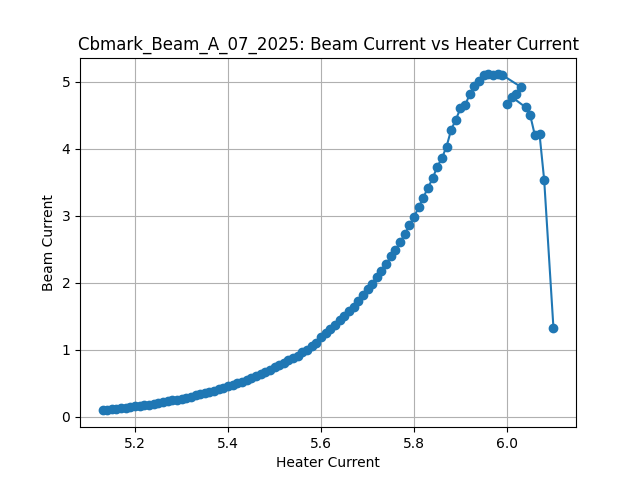
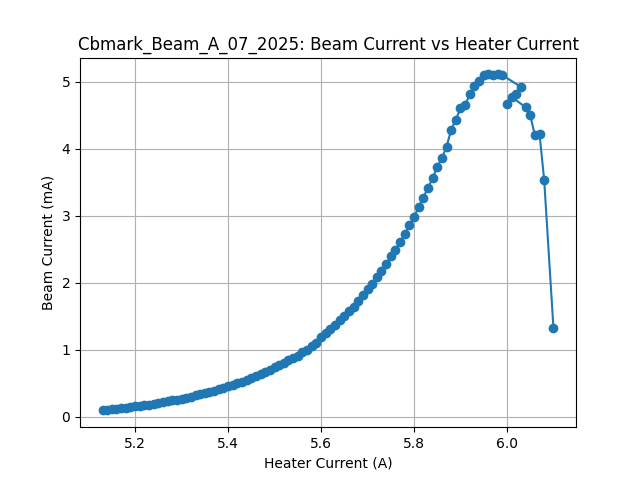
Added Units to beam plot axes and removed filenamee requirements for clean script

Changed region(s): [[0.4062, 0.9375, 0.625, 1.0], [0.0625, 0.375, 0.0938, 0.6562]]

diff --git a/data/lut/clean.py b/data/lut/clean.py
@@ -6,15 +6,17 @@ from collections import defaultdict
 
 BASE_DIR = os.path.dirname(os.path.abspath(__file__))
 
-POWER_SUPPLY_RAW_DIR = os.path.join(BASE_DIR, "power_supply", "raw_files")
+POWER_SUPPLY_INPUT_DIR = os.path.join(BASE_DIR, "power_supply")
 POWER_SUPPLY_PLOT_DIR = os.path.join(BASE_DIR, "power_supply", "plots")
 POWER_SUPPLY_OUTPUT_DIR = os.path.join(BASE_DIR, "power_supply")
 
-BEAM_CONTROL_RAW_DIR = os.path.join(BASE_DIR, "beam_control", "raw_files")
+BEAM_CONTROL_INPUT_DIR = os.path.join(BASE_DIR, "beam_control")
 BEAM_CONTROL_PLOT_DIR = os.path.join(BASE_DIR, "beam_control", "plots")
 BEAM_CONTROL_OUTPUT_DIR = os.path.join(BASE_DIR, "beam_control")
 
-RAW_PREFIX = "raw_"
+# Backward-compatible support for legacy raw_files folders.
+POWER_SUPPLY_RAW_DIR = os.path.join(BASE_DIR, "power_supply", "raw_files")
+BEAM_CONTROL_RAW_DIR = os.path.join(BASE_DIR, "beam_control", "raw_files")
 
 def read_csv(filename):
     with open(filename, newline="") as f:
@@ -73,20 +75,21 @@ def clean_power_supply_file(raw_path, clean_path):
     return rows
 
 
-def discover_raw_file_pairs(raw_dir):
-    """Return (raw_name, clean_name) for files named raw_*.csv in raw_dir."""
-    if not os.path.isdir(raw_dir):
+def discover_csv_file_pairs(input_dir):
+    """Return (input_name, clean_name) for CSV files in input_dir."""
+    if not os.path.isdir(input_dir):
         return []
 
     file_pairs = []
-    for name in sorted(os.listdir(raw_dir), key=str.lower):
+    for name in sorted(os.listdir(input_dir), key=str.lower):
         lower_name = name.lower()
         if not lower_name.endswith(".csv"):
             continue
-        if not lower_name.startswith(RAW_PREFIX):
+        # Skip hidden/temp artifacts.
+        if lower_name.startswith(".") or lower_name.startswith("~"):
             continue
 
-        clean_name = name[len(RAW_PREFIX):]
+        clean_name = name
         clean_stem, clean_ext = os.path.splitext(clean_name)
         if not clean_name or clean_ext.lower() != ".csv" or not clean_stem:
             continue
@@ -103,8 +106,8 @@ def plot_power_supply_graphs(rows, name, plot_dir):
     # Plot voltage vs beam current (X: voltage, Y: beam current)
     plt.figure()
     plt.plot(volt, beam, marker='o')
-    plt.xlabel('Voltage')
-    plt.ylabel('Beam Current')
+    plt.xlabel('Voltage (V)')
+    plt.ylabel('Beam Current (mA)')
     plt.title(f'{name}: Beam Current vs Voltage')
     plt.grid(True)
     plt.savefig(os.path.join(plot_dir, f'{name}_beam_vs_voltage.png'))
@@ -112,8 +115,8 @@ def plot_power_supply_graphs(rows, name, plot_dir):
     # Plot heater current vs beam current (X: heater current, Y: beam current)
     plt.figure()
     plt.plot(heater, beam, marker='o')
-    plt.xlabel('Heater Current')
-    plt.ylabel('Beam Current')
+    plt.xlabel('Heater Current (A)')
+    plt.ylabel('Beam Current (mA)')
     plt.title(f'{name}: Beam Current vs Heater Current')
     plt.grid(True)
     plt.savefig(os.path.join(plot_dir, f'{name}_beam_vs_heater.png'))
@@ -121,13 +124,19 @@ def plot_power_supply_graphs(rows, name, plot_dir):
 
 def process_power_supply_data():
     print("Processing power supply data...")
-    file_pairs = discover_raw_file_pairs(POWER_SUPPLY_RAW_DIR)
+    file_pairs = discover_csv_file_pairs(POWER_SUPPLY_INPUT_DIR)
     if not file_pairs:
-        print("Power Supply: No raw CSV files found matching raw_*.csv")
+        # Fallback for older layout.
+        file_pairs = discover_csv_file_pairs(POWER_SUPPLY_RAW_DIR)
+    if not file_pairs:
+        print("Power Supply: No CSV files found.")
         return
 
     for raw_name, clean_name in file_pairs:
-        raw_path = os.path.join(POWER_SUPPLY_RAW_DIR, raw_name)
+        raw_path = os.path.join(
+            POWER_SUPPLY_INPUT_DIR if os.path.isfile(os.path.join(POWER_SUPPLY_INPUT_DIR, raw_name)) else POWER_SUPPLY_RAW_DIR,
+            raw_name,
+        )
         rows = clean_power_supply_file(raw_path, raw_path)
         plot_name = clean_name.replace('.csv', '')
         plot_power_supply_graphs(rows, plot_name, POWER_SUPPLY_PLOT_DIR)
@@ -273,13 +282,19 @@ def plot_beam_control_graphs(rows, name, plot_dir, file_type):
 
 def process_beam_control_data():
     print("Processing beam control data...")
-    file_pairs = discover_raw_file_pairs(BEAM_CONTROL_RAW_DIR)
+    file_pairs = discover_csv_file_pairs(BEAM_CONTROL_INPUT_DIR)
     if not file_pairs:
-        print("Beam Control: No raw CSV files found matching raw_*.csv")
+        # Fallback for older layout.
+        file_pairs = discover_csv_file_pairs(BEAM_CONTROL_RAW_DIR)
+    if not file_pairs:
+        print("Beam Control: No CSV files found.")
         return
 
     for raw_name, clean_name in file_pairs:
-        raw_path = os.path.join(BEAM_CONTROL_RAW_DIR, raw_name)
+        raw_path = os.path.join(
+            BEAM_CONTROL_INPUT_DIR if os.path.isfile(os.path.join(BEAM_CONTROL_INPUT_DIR, raw_name)) else BEAM_CONTROL_RAW_DIR,
+            raw_name,
+        )
         raw_lower = raw_name.lower()
         if "bd" in raw_lower:
             file_type = "deflection"
@@ -313,25 +328,23 @@ def _infer_subsystem_from_rows(rows):
     )
 
 
-def _resolve_raw_input_path(filename):
-    """Resolve filename/path to an existing raw CSV path."""
+def _resolve_input_path(filename):
+    """Resolve filename/path to an existing CSV path."""
     if not filename:
         raise ValueError("Filename is required.")
 
     candidate_paths = []
     # Direct path support (absolute or relative)
     candidate_paths.append(filename)
+    candidate_paths.append(os.path.join(BASE_DIR, filename))
 
-    # Bare filename support against known raw directories.
+    # Bare filename support against known data directories.
     basename = os.path.basename(filename)
+    candidate_paths.append(os.path.join(POWER_SUPPLY_INPUT_DIR, basename))
+    candidate_paths.append(os.path.join(BEAM_CONTROL_INPUT_DIR, basename))
+    # Legacy support.
     candidate_paths.append(os.path.join(POWER_SUPPLY_RAW_DIR, basename))
     candidate_paths.append(os.path.join(BEAM_CONTROL_RAW_DIR, basename))
-
-    # Convenience: allow omission of raw_ prefix.
-    if not basename.lower().startswith(RAW_PREFIX):
-        prefixed = f"{RAW_PREFIX}{basename}"
-        candidate_paths.append(os.path.join(POWER_SUPPLY_RAW_DIR, prefixed))
-        candidate_paths.append(os.path.join(BEAM_CONTROL_RAW_DIR, prefixed))
 
     existing = []
     for path in candidate_paths:
@@ -343,7 +356,7 @@ def _resolve_raw_input_path(filename):
     if not existing:
         raise FileNotFoundError(
             f"Could not find CSV file '{filename}'. "
-            f"Checked direct path and raw folders under {BASE_DIR}."
+            f"Checked direct path and data folders under {BASE_DIR}."
         )
     if len(existing) > 1:
         raise ValueError(
@@ -356,21 +369,21 @@ def _resolve_raw_input_path(filename):
 
 def process_single_file(filename):
     """Process one CSV file identified by filename/path."""
-    raw_path = _resolve_raw_input_path(filename)
+    raw_path = _resolve_input_path(filename)
     raw_name = os.path.basename(raw_path)
 
-    clean_name = raw_name[len(RAW_PREFIX):] if raw_name.lower().startswith(RAW_PREFIX) else raw_name
+    clean_name = raw_name
     clean_stem, clean_ext = os.path.splitext(clean_name)
     if clean_ext.lower() != ".csv" or not clean_stem:
         raise ValueError(
             f"Invalid input filename '{raw_name}'. "
-            "Expected a CSV with a non-empty name, typically starting with raw_."
+            "Expected a CSV with a non-empty name."
         )
 
     normalized_raw_path = os.path.normcase(os.path.abspath(raw_path))
-    if normalized_raw_path.startswith(os.path.normcase(os.path.abspath(POWER_SUPPLY_RAW_DIR))):
+    if normalized_raw_path.startswith(os.path.normcase(os.path.abspath(POWER_SUPPLY_INPUT_DIR))) or normalized_raw_path.startswith(os.path.normcase(os.path.abspath(POWER_SUPPLY_RAW_DIR))):
         subsystem = "power_supply"
-    elif normalized_raw_path.startswith(os.path.normcase(os.path.abspath(BEAM_CONTROL_RAW_DIR))):
+    elif normalized_raw_path.startswith(os.path.normcase(os.path.abspath(BEAM_CONTROL_INPUT_DIR))) or normalized_raw_path.startswith(os.path.normcase(os.path.abspath(BEAM_CONTROL_RAW_DIR))):
         subsystem = "beam_control"
     else:
         rows_for_inference = read_csv(raw_path)
@@ -399,7 +412,7 @@ def main():
     parser.add_argument(
         'filename',
         nargs='?',
-        help='Raw CSV filename (or path). Example: raw_powersupply_A.csv'
+        help='CSV filename (or path). Example: Cbmark_Beam_A_07_2025.csv'
     )
     args = parser.parse_args()
 
